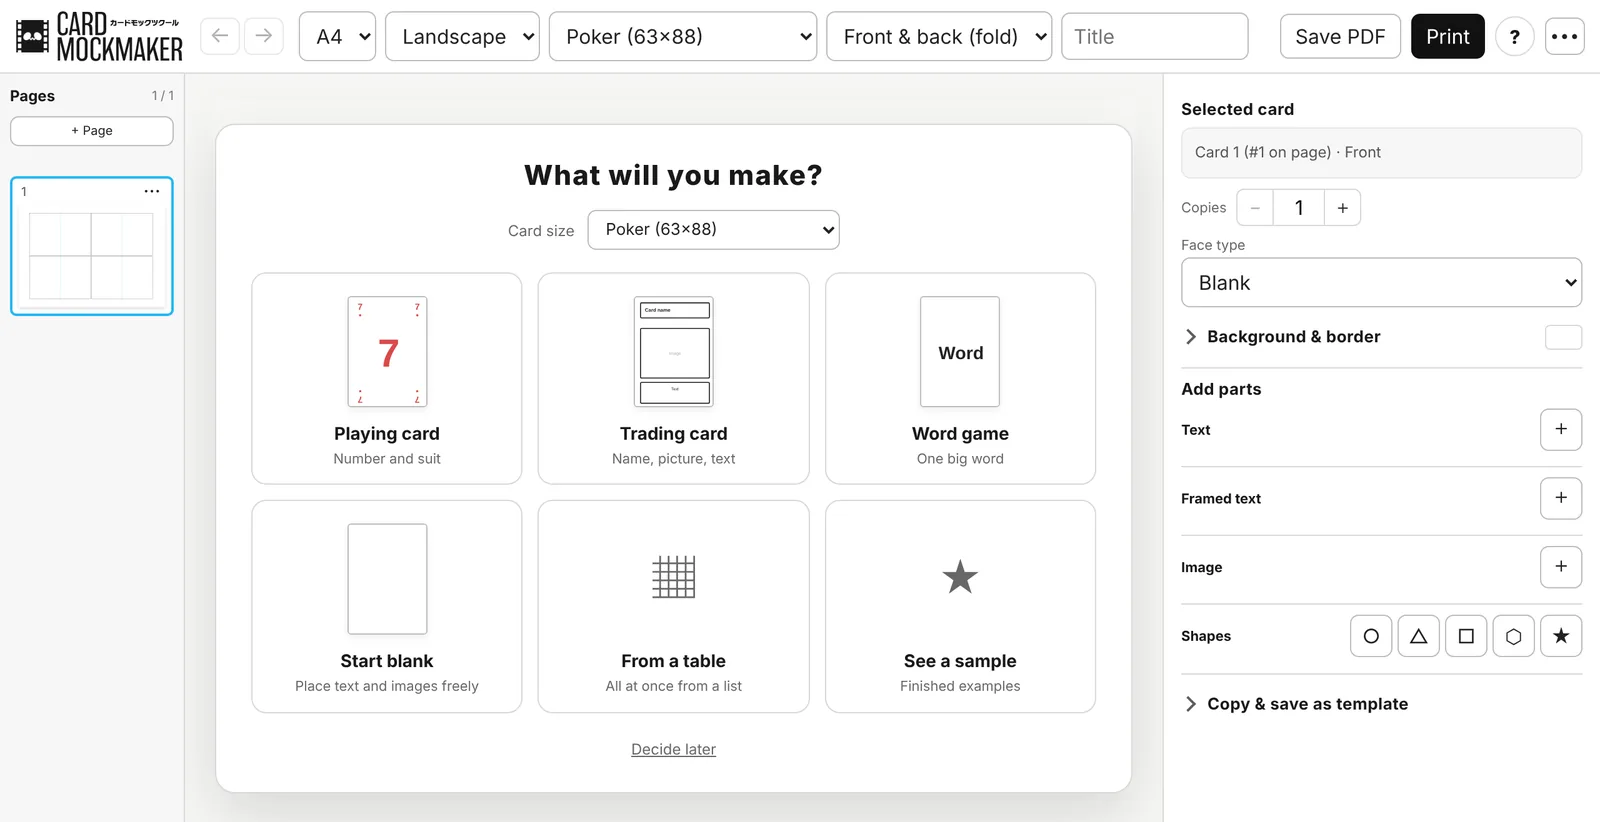
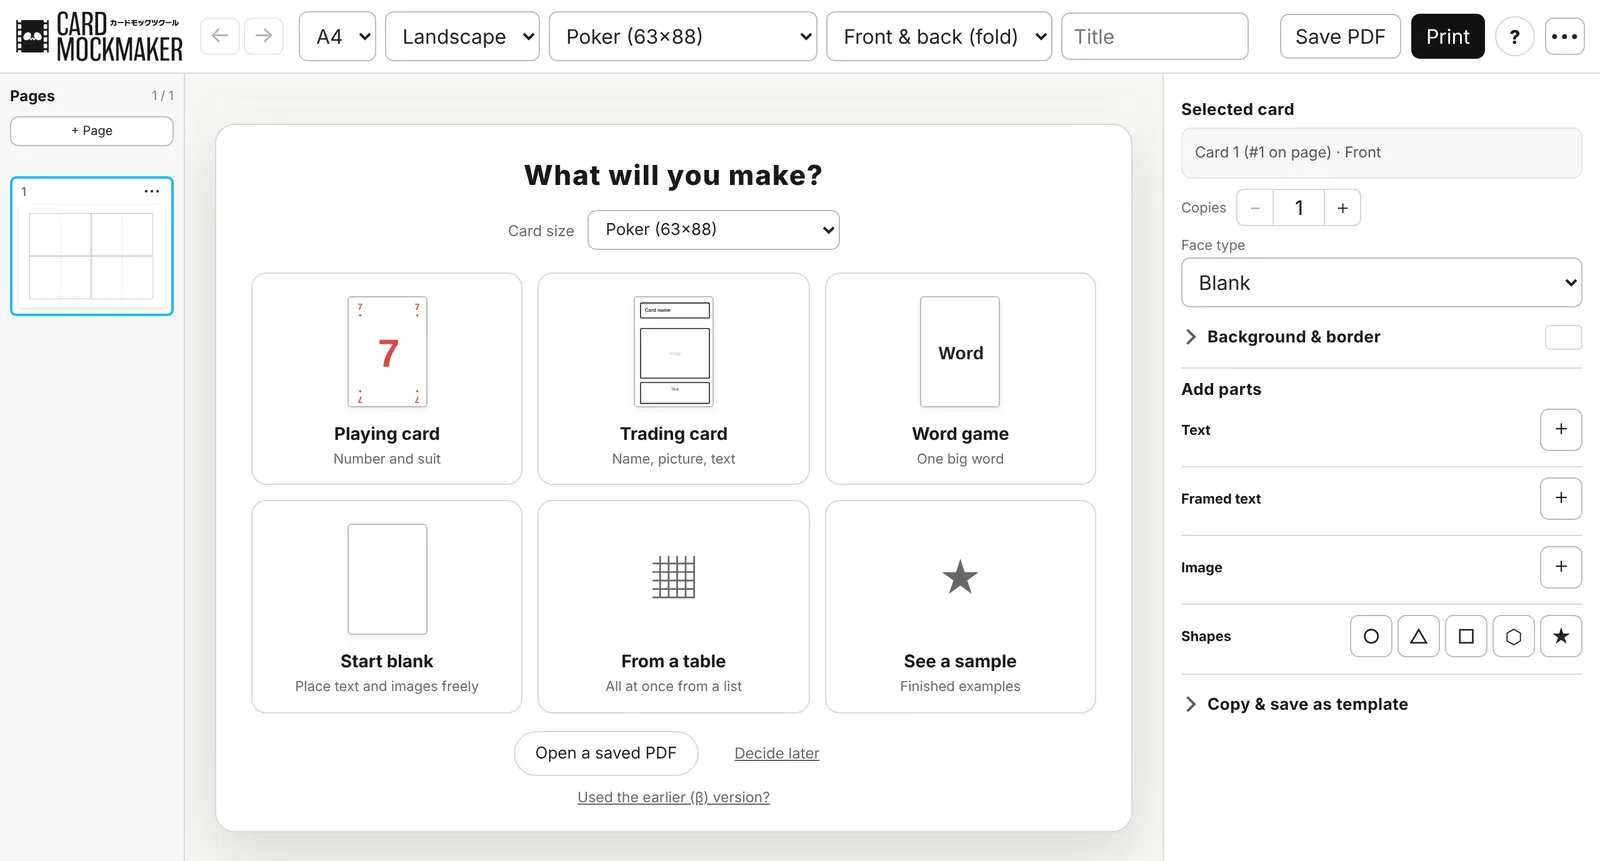
カードモックツクール(テスト版): 以前の版(β)から来た人向けに、最初の画面に「保存したPDFを開く」、βのPDFを開いたとき一度だけ変わったところを案内、使い方に「以前の版から変わったところ」
Claude-Session: https://claude.ai/code/session_01MypZ6bnFd6NWuA9aApFgtm

diff --git a/card-mock-maker-next/guide/index.html b/card-mock-maker-next/guide/index.html
@@ -251,7 +251,7 @@
     <nav class="toc" aria-label="目次 / Contents">
       <details class="toc-box" open>
         <summary><span lang="ja">目次</span><span lang="en">Contents</span></summary>
-        <ol><li><a href="#start"><span lang="ja">はじめに</span><span lang="en">Getting started</span></a></li><li><a href="#screen"><span lang="ja">画面の見かた</span><span lang="en">The screen</span></a></li><li><a href="#card"><span lang="ja">カードを作る</span><span lang="en">Making a card</span></a></li><li><a href="#template"><span lang="ja">テンプレート</span><span lang="en">Templates</span></a></li><li><a href="#options"><span lang="ja">パーツ</span><span lang="en">Parts</span></a></li><li><a href="#copies"><span lang="ja">枚数</span><span lang="en">Copies</span></a></li><li><a href="#pages"><span lang="ja">ページ</span><span lang="en">Pages</span></a></li><li><a href="#layout"><span lang="ja">並べ方</span><span lang="en">Layout</span></a></li><li><a href="#bulk"><span lang="ja">表から一括作成</span><span lang="en">Create from a table</span></a></li><li><a href="#mytpl"><span lang="ja">マイテンプレート</span><span lang="en">My templates</span></a></li><li><a href="#print"><span lang="ja">印刷</span><span lang="en">Printing</span></a></li><li><a href="#save"><span lang="ja">保存と作品の一覧</span><span lang="en">Saving and your projects</span></a></li><li><a href="#export"><span lang="ja">画像で書き出す</span><span lang="en">Exporting images</span></a></li><li><a href="#phone"><span lang="ja">スマホで使う</span><span lang="en">On a phone</span></a></li><li><a href="#settings"><span lang="ja">単位・フォント・言語</span><span lang="en">Units, fonts and language</span></a></li><li><a href="#keys"><span lang="ja">キーボード操作</span><span lang="en">Keyboard shortcuts</span></a></li><li><a href="#faq"><span lang="ja">よくある質問</span><span lang="en">FAQ</span></a></li></ol>
+        <ol><li><a href="#start"><span lang="ja">はじめに</span><span lang="en">Getting started</span></a></li><li><a href="#screen"><span lang="ja">画面の見かた</span><span lang="en">The screen</span></a></li><li><a href="#card"><span lang="ja">カードを作る</span><span lang="en">Making a card</span></a></li><li><a href="#template"><span lang="ja">テンプレート</span><span lang="en">Templates</span></a></li><li><a href="#options"><span lang="ja">パーツ</span><span lang="en">Parts</span></a></li><li><a href="#copies"><span lang="ja">枚数</span><span lang="en">Copies</span></a></li><li><a href="#pages"><span lang="ja">ページ</span><span lang="en">Pages</span></a></li><li><a href="#layout"><span lang="ja">並べ方</span><span lang="en">Layout</span></a></li><li><a href="#bulk"><span lang="ja">表から一括作成</span><span lang="en">Create from a table</span></a></li><li><a href="#mytpl"><span lang="ja">マイテンプレート</span><span lang="en">My templates</span></a></li><li><a href="#print"><span lang="ja">印刷</span><span lang="en">Printing</span></a></li><li><a href="#save"><span lang="ja">保存と作品の一覧</span><span lang="en">Saving and your projects</span></a></li><li><a href="#export"><span lang="ja">画像で書き出す</span><span lang="en">Exporting images</span></a></li><li><a href="#phone"><span lang="ja">スマホで使う</span><span lang="en">On a phone</span></a></li><li><a href="#settings"><span lang="ja">単位・フォント・言語</span><span lang="en">Units, fonts and language</span></a></li><li><a href="#keys"><span lang="ja">キーボード操作</span><span lang="en">Keyboard shortcuts</span></a></li><li><a href="#changes"><span lang="ja">以前の版（β）から変わったところ</span><span lang="en">Changes from the β version</span></a></li><li><a href="#faq"><span lang="ja">よくある質問</span><span lang="en">FAQ</span></a></li></ol>
       </details>
     </nav>
     <div class="g-main">
@@ -270,9 +270,10 @@
 <div class="split">
   <div>
     <p lang="ja">はじめて開くと<b class="ui">何を作る？</b>の画面が出ます。カードの種類を選ぶと、1ページぶんのカードが並びます。表計算ソフトにカードのリストがあるなら<b class="ui">表から作る</b>、できあがりの例を触りたいなら<b class="ui">見本を見る</b>。</p><p lang="en">The first time you open it you’ll see <b class="ui">What will you make?</b>. Pick a kind of card and a page of them is laid out for you. Have a card list in a spreadsheet? Choose <b class="ui">From a table</b>. Want to play with a finished example? Choose <b class="ui">See a sample</b>.</p>
+    <p lang="ja">前に保存したPDFの続きは<b class="ui">保存したPDFを開く</b>から（以前の版のPDFも開けます→<a href="#changes">変わったところ</a>）。</p><p lang="en">To continue from a saved PDF, choose <b class="ui">Open a saved PDF</b> (PDFs from the earlier version open too; see <a href="#changes">what changed</a>).</p>
     <p lang="ja"><b class="ui">あとで決める</b>を押すと、白紙から始まります。見本・一括作成・新しい作品は、右上の<b class="ui">•••</b>（スマホは<b class="ui">メニュー</b>）からいつでも開けます。この使い方は、右上の<b class="ui">?</b>ボタンでいつでも開けます。</p><p lang="en"><b class="ui">Decide later</b> starts you on a blank sheet. The sample, table import and new projects are always in the <b class="ui">•••</b> menu at the top right (<b class="ui">Menu</b> on a phone). This guide opens any time from the <b class="ui">?</b> button at the top right.</p>
   </div>
-  <figure class="shot "><img lang="ja" src="img/start-ja.webp?v=20261105" width="1600" height="832" alt="最初の画面「何を作る？」" loading="lazy" decoding="async"><img lang="en" src="img/start-en.webp?v=20261105" width="1600" height="822" alt="The first screen: “What will you make?”" loading="lazy" decoding="async"><figcaption><span lang="ja">最初の画面「何を作る？」</span><span lang="en">The first screen: “What will you make?”</span></figcaption></figure>
+  <figure class="shot "><img lang="ja" src="img/start-ja.webp?v=20261105" width="1600" height="870" alt="最初の画面「何を作る？」" loading="lazy" decoding="async"><img lang="en" src="img/start-en.webp?v=20261105" width="1600" height="861" alt="The first screen: “What will you make?”" loading="lazy" decoding="async"><figcaption><span lang="ja">最初の画面「何を作る？」</span><span lang="en">The first screen: “What will you make?”</span></figcaption></figure>
 </div>
 
 </section>
@@ -635,6 +636,27 @@
     <tr><td>⇧⌘Z / Ctrl+Y</td><td><span lang="ja">やり直し</span><span lang="en">Redo</span></td></tr>
   </tbody>
 </table></div>
+
+</section>
+<section class="g-sec" id="changes" aria-labelledby="changes-h">
+  <header class="sec-head"><p class="en" aria-hidden="true">FROM THE β VERSION</p><div class="sec-row"><h2 class="pill" id="changes-h"><span lang="ja">以前の版（β）から変わったところ</span><span lang="en">Changes from the β version</span></h2></div></header>
+  
+<p lang="ja">以前の版で保存したPDFは、そのまま「PDF読み込み」（最初の画面の「保存したPDFを開く」）で開けます。名前や場所が変わったものは次のとおりです。</p><p lang="en">PDFs saved with the earlier version open as they are with “Open PDF” (or “Open a saved PDF” on the first screen). Here is what was renamed or moved.</p>
+<div class="table-wrap"><table class="heads">
+  <thead><tr><th><span lang="ja">以前の版</span><span lang="en">Before</span></th><th><span lang="ja">いまの版</span><span lang="en">Now</span></th></tr></thead>
+  <tbody>
+    <tr><td><span lang="ja">面の種類「テンプレート」→ テンプレ1〜3</span><span lang="en">Face type “Template” → Template 1–3</span></td><td><span lang="ja">面の種類で「トランプ」「トレカ」「ワードゲーム」を直接選ぶ</span><span lang="en">Choose Playing card, Trading card or Word game directly as the face type</span></td></tr>
+    <tr><td><span lang="ja">テンプレ4：カスタム</span><span lang="en">Template 4: Custom</span></td><td><span lang="ja">「無地」＋パーツ（文字・枠つき文字など）。開くと自動でこの形になります</span><span lang="en">Blank + parts (text, framed text…). Converted automatically when opened</span></td></tr>
+    <tr><td><span lang="ja">オプション</span><span lang="en">Options</span></td><td><span lang="ja">パーツ</span><span lang="en">Parts</span></td></tr>
+    <tr><td><span lang="ja">テキストボックス</span><span lang="en">Text box</span></td><td><span lang="ja">文字</span><span lang="en">Text</span></td></tr>
+    <tr><td><span lang="ja">フレームテキスト</span><span lang="en">Frame text</span></td><td><span lang="ja">枠つき文字</span><span lang="en">Framed text</span></td></tr>
+    <tr><td><span lang="ja">面付け（両面・片面）</span><span lang="en">Imposition (double/single)</span></td><td><span lang="ja">並べ方（両面（折り）・片面・両面印刷）</span><span lang="en">Layout (Front & back (fold), Single-sided, Duplex printing)</span></td></tr>
+    <tr><td><span lang="ja">背景の色・線・背景画像</span><span lang="en">Background colour, border, background image</span></td><td><span lang="ja">「背景とふち」を押して開く</span><span lang="en">Click “Background & border” to open</span></td></tr>
+    <tr><td><span lang="ja">面をコピー・面をペースト</span><span lang="en">Copy face / Paste face</span></td><td><span lang="ja">「コピー・テンプレート保存」を押して開く</span><span lang="en">Click “Copy & save as template” to open</span></td></tr>
+    <tr><td><span lang="ja">保存はPDFだけ</span><span lang="en">Saving only as PDF</span></td><td><span lang="ja">ブラウザに自動で保存（作品の一覧）。PDF保存もそのまま</span><span lang="en">Saved automatically in the browser (My projects). Save PDF works as before</span></td></tr>
+  </tbody>
+</table></div>
+<div class="note tip"><b class="note-l"><span lang="ja">ヒント</span><span lang="en">Tip</span></b><p lang="ja">枠に入りきらない文字は、自動で小さくして収めるようになりました。以前の版で切れていた文字が、小さくなって全部見えることがあります（メニューの「はみ出す文字は自動で小さくする」で切り替えられます）。</p><p lang="en">Text that doesn’t fit its box is now shrunk to fit, so text that used to be cut off may appear smaller (switch this with “Shrink text that doesn’t fit” in the menu).</p></div>
 
 </section>
 <section class="g-sec" id="faq" aria-labelledby="faq-h">

diff --git a/card-mock-maker-next/i18n.js b/card-mock-maker-next/i18n.js
@@ -21,7 +21,15 @@ const EN={
   "下の「面」「テンプレ」から作りはじめます。":"Start from “Face” or “Template” below.",
   "見本を開く":"Open sample","見本":"Sample",
   // ---- スマホ
-  "スマホ用ツールバー":"Phone toolbar","面":"Face","テンプレ":"Template","オプション":"Options","パーツ":"Parts","完了":"Done","パーツは種類ごとに、1つの面に{n}個まで置けます。":"Each face can hold up to {n} parts of each kind.","小さく":"Smaller","大きく":"Bigger","中央へ":"Center","パーツの選択をやめる":"Deselect part","ホーム画面に追加":"Add to Home Screen","ホーム画面に追加しました。":"Added to your home screen.",
+  "スマホ用ツールバー":"Phone toolbar","面":"Face","テンプレ":"Template","オプション":"Options","パーツ":"Parts","完了":"Done","保存したPDFを開く":"Open a saved PDF","以前の版（β）を使っていた方へ":"Used the earlier (β) version?","以前の版のPDFを開きました":"Opened a PDF from the earlier version",
+  "中身はそのまま開けています。新しい版で変わったところです。":"Everything opened as it was. Here's what changed in the new version.",
+  "「テンプレート」→「テンプレ1〜3」と選んでいたものは、":"Instead of choosing “Template” and then “Template 1–3”, ","で「トランプ」「トレカ」「ワードゲーム」を直接選びます。":" now lists Playing card, Trading card and Word game directly.",
+  "「テンプレ4：カスタム」で作ったカードは、「無地」と文字のパーツになっています。":"Cards made with “Template 4: Custom” are now Blank faces with text parts.",
+  "名前が変わりました：オプション →":"Some names changed: Options →","、テキストボックス →":", Text box →","、フレームテキスト →":", Frame text →","、面付け →":", Imposition →",
+  "背景の色や線は「":"Background colour and border are under “","」、面のコピーは「":"”, and face copying is under “","」を押すと開きます。":"”. Click them to open.",
+  "枠に入りきらない文字は、自動で小さくして収めます（メニューで切り替えられます）。":"Text that doesn't fit its box is shrunk automatically (you can turn this off in the menu).",
+  "作品はこのブラウザに":"Your projects are now ","され、メニューの「作品の一覧」から開けます。":" in this browser; open them from “My projects” in the menu.","自動で保存":"saved automatically",
+  "くわしく見る":"Learn more","。":".","はじめる":"Start","パーツは種類ごとに、1つの面に{n}個まで置けます。":"Each face can hold up to {n} parts of each kind.","小さく":"Smaller","大きく":"Bigger","中央へ":"Center","パーツの選択をやめる":"Deselect part","ホーム画面に追加":"Add to Home Screen","ホーム画面に追加しました。":"Added to your home screen.",
   "Safariの共有ボタン(□に↑)から「ホーム画面に追加」を選んでください。":"In Safari, tap the Share button (□ with ↑) and choose “Add to Home Screen”.","コピーした面を貼りました。":"Pasted the copied face.","この面をコピーしました。ほかの面を選んで ⌘V / Ctrl+V で貼れます。":"Copied this face. Select another face and press ⌘V / Ctrl+V to paste it.","大きさ":"Size","左右":"Left–right","上下":"Up–down","元に戻す":"Reset","カードの上でドラッグしても動かせます":"You can also drag it on the card","はみ出す文字は自動で小さくする":"Shrink text that doesn't fit","自動で小さくする":"Shrink automatically",
   "文字が枠からはみ出しています(赤い点線)。文字を減らすか小さくするか、「自動で小さくする」をオンにしてください。":"Some text doesn't fit its box (red dotted line). Shorten it, make it smaller, or turn on “Shrink automatically”.",
   "文字が枠に入りきりません(赤い点線)。文字を減らすか、枠を大きくしてください。":"Some text still doesn't fit (red dotted line). Shorten it or make the box bigger.","パーツを足す":"Add parts","選んでいるカード":"Selected card","並べ方":"Layout","背景とふち":"Background & border","コピー・テンプレート保存":"Copy & save as template",

diff --git a/card-mock-maker-next/index.html b/card-mock-maker-next/index.html
@@ -137,6 +137,24 @@
   </div>
 </div>
 
+<div id="betaModal" class="modal" hidden role="dialog" aria-modal="true" aria-labelledby="betaTitle">
+  <div class="modal-box modal-narrow">
+    <div class="modal-head"><strong id="betaTitle">以前の版のPDFを開きました</strong><button type="button" class="modal-close" data-beta-close aria-label="閉じる">×</button></div>
+    <div class="modal-body beta-body">
+      <p>中身はそのまま開けています。新しい版で変わったところです。</p>
+      <ul>
+        <li>「テンプレート」→「テンプレ1〜3」と選んでいたものは、<b>面の種類</b>で「トランプ」「トレカ」「ワードゲーム」を直接選びます。</li>
+        <li id="betaCustomNote" hidden>「テンプレ4：カスタム」で作ったカードは、「無地」と文字のパーツになっています。</li>
+        <li>名前が変わりました：オプション → <b>パーツ</b>、テキストボックス → <b>文字</b>、フレームテキスト → <b>枠つき文字</b>、面付け → <b>並べ方</b>。</li>
+        <li>背景の色や線は「<b>背景とふち</b>」、面のコピーは「<b>コピー・テンプレート保存</b>」を押すと開きます。</li>
+        <li>枠に入りきらない文字は、自動で小さくして収めます（メニューで切り替えられます）。</li>
+        <li>作品はこのブラウザに<b>自動で保存</b>され、メニューの「作品の一覧」から開けます。</li>
+      </ul>
+    </div>
+    <div class="modal-foot"><a class="beta-guide-link" href="guide/#changes" target="_blank" rel="noopener">くわしく見る</a><button type="button" class="primary" data-beta-close>はじめる</button></div>
+  </div>
+</div>
+
 <div id="sizeModal" class="modal" hidden role="dialog" aria-modal="true" aria-labelledby="sizeTitle">
   <div class="modal-box modal-narrow">
     <div class="modal-head"><strong id="sizeTitle">カードの大きさ</strong><button type="button" class="modal-close" data-size-close aria-label="閉じる">×</button></div>
@@ -206,7 +224,11 @@
             <button type="button" class="start-tile" data-start="table"><span class="start-art start-art-icon" aria-hidden="true">▦</span><b>表から作る</b><small>リストからまとめて</small></button>
             <button type="button" class="start-tile" data-start="sample"><span class="start-art start-art-icon" aria-hidden="true">★</span><b>見本を見る</b><small>できあがりの例</small></button>
           </div>
-          <button type="button" id="startLater" class="start-later">あとで決める</button>
+          <div class="start-foot">
+            <button type="button" id="startOpenPdf" class="start-open-pdf">保存したPDFを開く</button>
+            <button type="button" id="startLater" class="start-later">あとで決める</button>
+          </div>
+          <a class="start-beta-link" href="guide/#changes" target="_blank" rel="noopener">以前の版（β）を使っていた方へ</a>
         </div>
       </section>
       <div id="emptyHint" class="empty-hint" hidden>

diff --git a/card-mock-maker-next/app.js b/card-mock-maker-next/app.js
@@ -2378,6 +2378,14 @@ function startWith(kind){
 document.querySelectorAll("#startTiles [data-start]").forEach(b=>b.addEventListener("click",()=>startWith(b.dataset.start)));
 function dismissStart(){if(startDismissed)return;startDismissed=true;const blank=deck.order.every(isBlankCard);["emptyHint","mobileEmptyHint"].forEach(id=>{if(el(id))el(id).hidden=!blank});syncStartChooser(blank)}
 el("startLater").addEventListener("click",dismissStart);
+el("startOpenPdf")?.addEventListener("click",()=>el("loadPdf").click());
+/* 以前の版(β)から来た人に、変わったところを伝える(このブラウザでは一度だけ) */
+function showBetaNote(hadCustom){
+  try{if(localStorage.getItem("pk-beta-note"))return;localStorage.setItem("pk-beta-note","1")}catch(_){}
+  el("betaCustomNote").hidden=!hadCustom;el("betaModal").hidden=false;
+}
+document.querySelectorAll("[data-beta-close]").forEach(b=>b.addEventListener("click",()=>{el("betaModal").hidden=true}));
+el("betaModal").addEventListener("click",e=>{if(e.target===el("betaModal"))el("betaModal").hidden=true});
 el("startCardSize").addEventListener("change",e=>{const src=el("cardSize");src.value=e.target.value;src.dispatchEvent(new Event("change",{bubbles:true}));syncStartChooser(deck.order.every(isBlankCard))});
 document.addEventListener("cmm-langchange",()=>{startSig="";syncStartChooser(deck.order.every(isBlankCard))});
 /* ---- フォントの選択 ---- */
@@ -3025,8 +3033,11 @@ el("loadPdf").addEventListener("change",async e=>{
     if(!project)throw new Error(T("このPDFにはCard Mock Makerの編集データがありません。"));
     const text=new TextDecoder().decode(project.data);
     const parsed=JSON.parse(text);
+    // 以前の版(β)のPDF:作品の形が違う(deckがない)。中身は新しい形に直して開き、変わったところを一度伝える
+    const fromBeta=!parsed.deck&&Array.isArray(parsed.pages),hadCustom=fromBeta&&parsed.pages.some(pg=>(pg||[]).some(d=>d&&d.type==="template"&&d.template==="custom"));
     await beginNewProject();   // 読み込んだPDFは新しい作品として開く(いまの作品は一覧に残る)
     restoreProject(hydrateProjectImages(parsed,atts));
+    if(fromBeta)showBetaNote(hadCustom);
   }catch(err){
     console.error(err);alert(err.message||T("PDFを読み込めませんでした。"));
   }finally{e.target.value=""}

diff --git a/card-mock-maker-next/app.css b/card-mock-maker-next/app.css
@@ -2447,3 +2447,14 @@ button,select,label,summary,input,[role=button],.file-btn,.swatch{touch-action:m
 .part-dup{margin-left:auto;margin-right:6px;font-size:11px;padding:2px 8px;min-height:24px;border-radius:6px}
 .textbox-editor-head,.option-image-editor-head,.shape-editor-head,.frame-editor-head{display:flex;align-items:center;gap:6px}
 @media(max-width:720px){.part-bar{gap:4px;padding:0 8px}.part-bar button{padding:0 4px;font-size:13.5px}.mobile-panel-body .part-dup{min-height:42px;font-size:13px;padding:0 12px}}
+
+/* ---- 以前の版から来た人へ ---- */
+.start-foot{display:flex;align-items:center;justify-content:center;gap:18px;margin-top:14px;flex-wrap:wrap}
+.start-foot .start-later{margin-top:0}
+.start-open-pdf{border:1px solid var(--ui-border)!important;background:var(--ui-control)!important;border-radius:999px!important;padding:0 16px!important;min-height:36px;font-size:13px!important}
+.start-beta-link{display:block;margin-top:10px;text-align:center;font-size:11.5px;color:var(--ui-muted)}
+.beta-body p{margin:0 0 8px}
+.beta-body ul{margin:0;padding-left:1.2em;display:grid;gap:7px;font-size:13px;line-height:1.6}
+.beta-body li[hidden]{display:none}
+.beta-guide-link{margin-right:auto;font-size:13px}
+@media(max-width:720px){.start-open-pdf{min-height:44px;font-size:14px!important}.start-beta-link{font-size:12.5px;padding:6px 0}}
